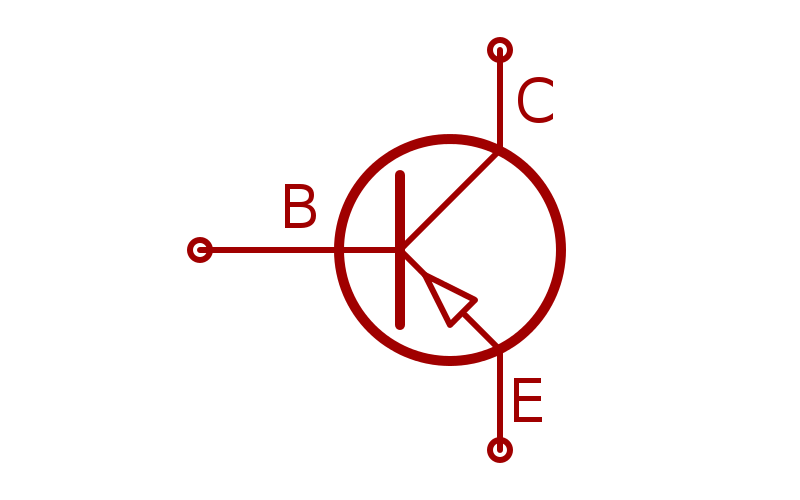
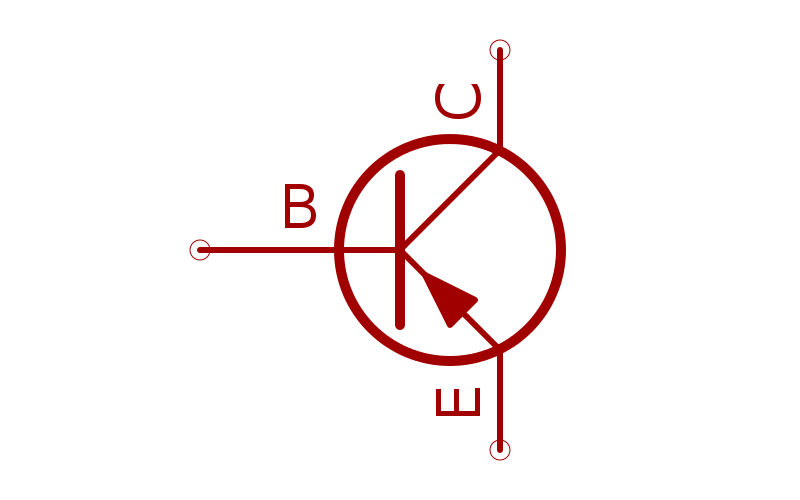
Now does polygon fills and rotate pin numbers

diff --git a/kicad.py b/kicad.py
@@ -45,6 +45,7 @@ def draw_element(line):
 			x = 6 + (ii*3)
 			y = (6 + 1) + (ii*3)
 			ctx.line_to(width/2+float(line[x]),height/2-float(line[y]))
+		ctx.fill_preserve()
 		ctx.stroke()
 		
 	elif line[0] == "X": # X name number posx posy length orientation Snum Snom unit convert Etype [shape]
@@ -56,23 +57,34 @@ def draw_element(line):
 		y = float(line[4])
 		length = float(line[5])
 		
+		# Draw endpoints
 		ctx.new_path()
 		ctx.set_source_rgb(*graphic_color)
+		ctx.set_line_width(1)
 		ctx.arc(width/2+x,height/2-y,10,0,2*pi) # This should be a thin line width
+		ctx.stroke()
+		
+		# Draw the rest of the pin
+		ctx.new_path()
+		ctx.set_line_width(6)
 		ctx.move_to(width/2+x,height/2-y)
 		if line[6] == "U":
 			#ctx.set_source_rgb(*graphic_color)
 			ctx.line_to(width/2+x,height/2+length)
 			ctx.set_font_size(float(line[8])*1.5)
 			x_off, y_off, tw, th = ctx.text_extents(number)[:4]
-			ctx.move_to(width/2-x_off-tw/2+x+tw,height/2-y_off-th/2-y-length/2)
+			ctx.move_to(width/2-x_off-tw/2+x,height/2-y_off-th/2-y-length/2)
+			ctx.rotate(3*pi/2)
 			ctx.show_text(number)
+			ctx.rotate(-3*pi/2)
 		elif line[6] == "D":
 			ctx.line_to(width/2+x,height/2-length)
 			ctx.set_font_size(float(line[8])*1.5)
 			x_off, y_off, tw, th = ctx.text_extents(number)[:4]
-			ctx.move_to(width/2-x_off-tw/2+x+tw,height/2-y_off-th/2-y+length/2)
+			ctx.move_to(width/2-x_off-tw/2+x,height/2-y_off-th/2-y+length/2)
+			ctx.rotate(3*pi/2)
 			ctx.show_text(number)
+			ctx.rotate(-3*pi/2)
 		elif line[6] == "R":
 			ctx.line_to(width/2+x+length,height/2-y)
 			ctx.set_font_size(float(line[8])*1.5)
@@ -83,20 +95,8 @@ def draw_element(line):
 			ctx.line_to(width/2+x-length,height/2-y)
 			ctx.set_font_size(float(line[8])*1.5)
 			x_off, y_off, tw, th = ctx.text_extents(number)[:4]
-			ctx.move_to(width/2-x_off-tw/2+x+tw,height/2-y_off-th/2-y-length/2)
+			ctx.move_to(width/2-x_off-tw/2+x-length/2,height/2-y_off-th/2-y-th)
 			ctx.show_text(number)
-
-#		ctx.set_font_size(float(line[7]))
-#		ctx.set_source_rgb(*label_color)
-#		x_off, y_off, tw, th = ctx.text_extents(name)[:4]
-#		ctx.move_to(width/2-x_off-tw/2+x,height/2-y_off-th/2-y)
-#		ctx.show_text(name)
-
-#		ctx.set_font_size(float(line[8]))
-#		ctx.set_source_rgb(*graphic_color)
-#		x_off, y_off, tw, th = ctx.text_extents(number)[:4]
-#		ctx.move_to(width/2-x_off-tw/2+x+length/2,height/2-y_off-th/2-y+y_off)
-#		ctx.show_text(number)
 
 		ctx.stroke()
 
@@ -114,7 +114,6 @@ for i in range(len(content)):
 		line = line.split(' ') 			# Converts to array
 		print(line)
 		draw_element(line)
-
 
 surf.write_to_png(output)
 
